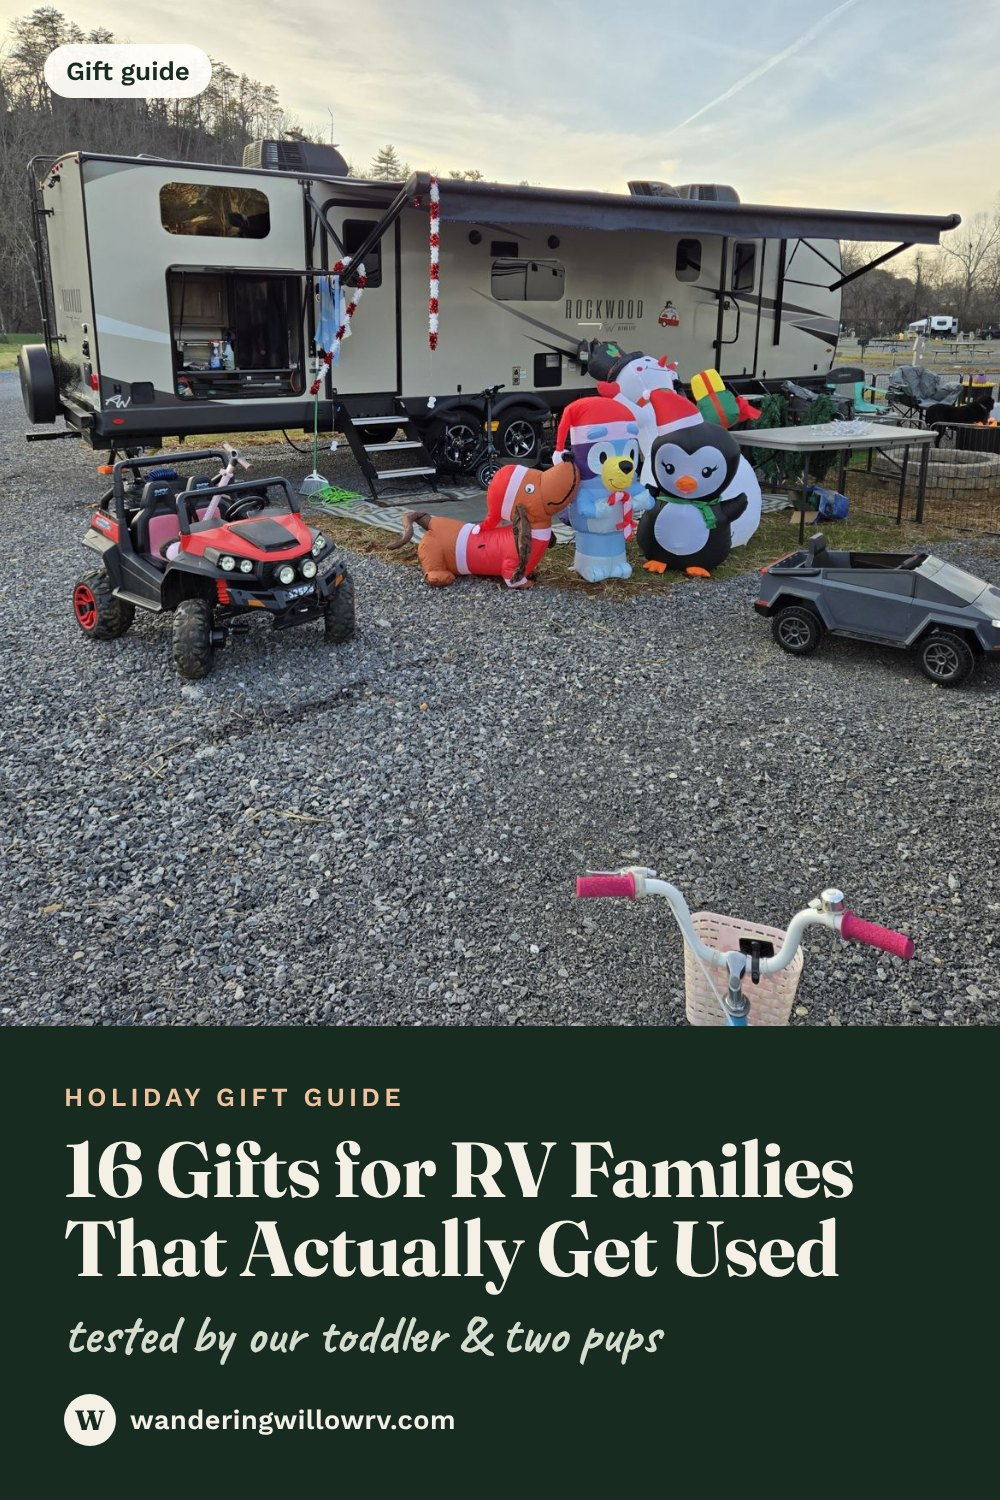
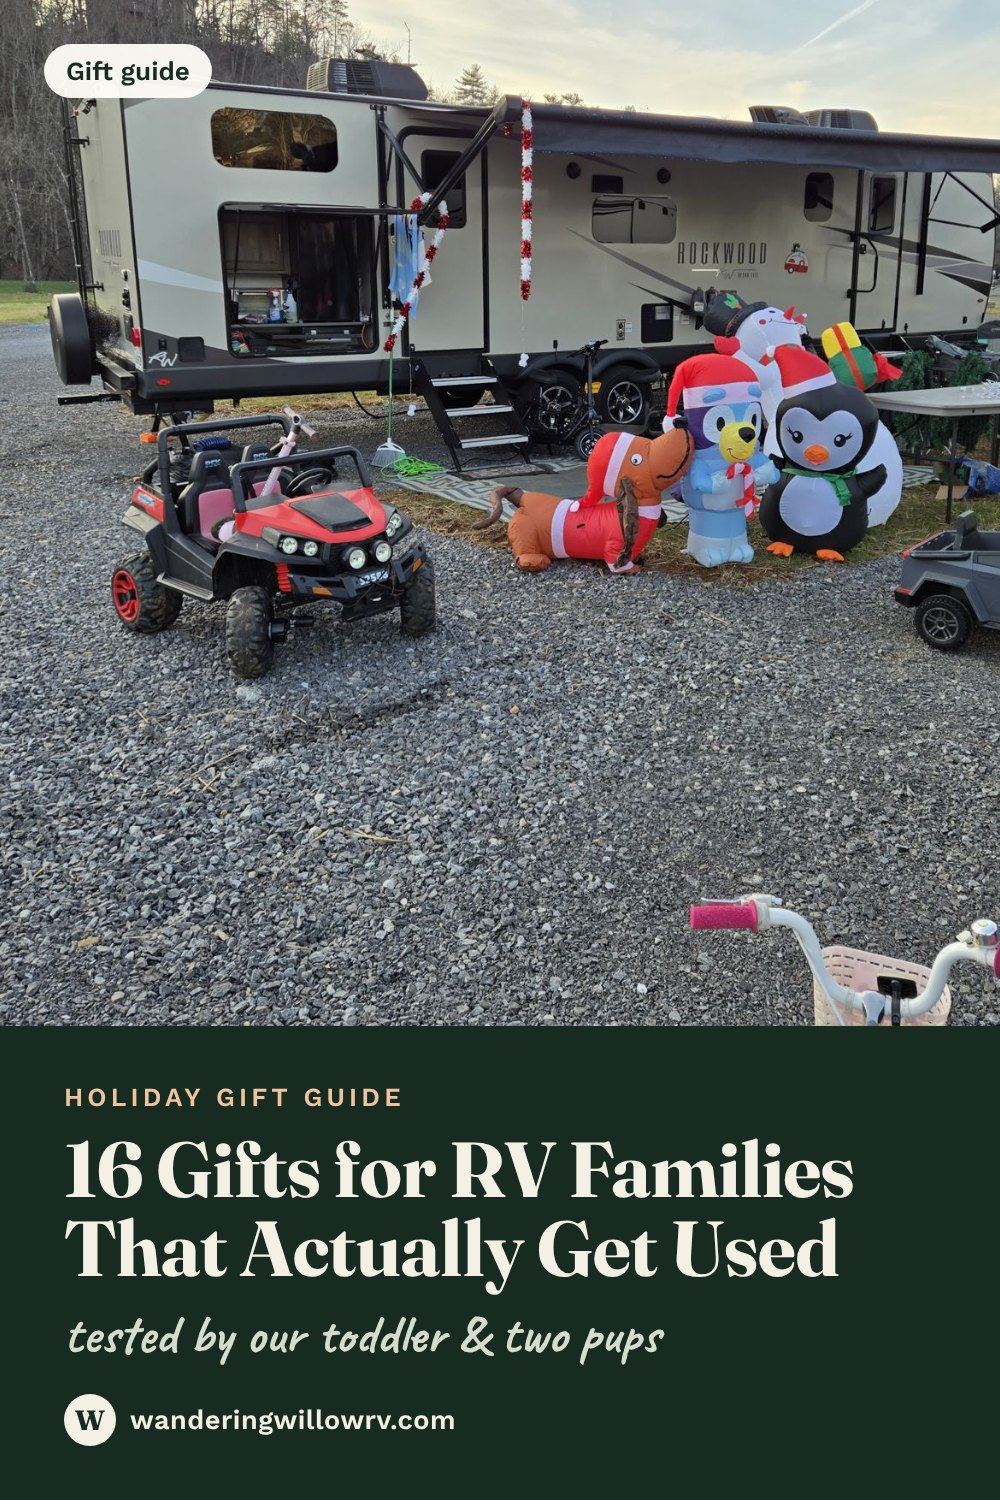
Gift guide: add affiliate links, crop people out of Tennessee campsite photo
Claude-Session: https://claude.ai/code/session_01E29rhF4XaSC5TLNKNVgp7u

diff --git a/stories/rv-family-gift-guide.html b/stories/rv-family-gift-guide.html
@@ -105,37 +105,34 @@
         <span class="badge">We own it</span>
         <h4><span class="gift-num">4.</span>Smokeless Fire Pit + Grill Grate</h4>
         <p>Less smoke in your eyes and in the camper. Add a grate on top and it becomes a grill. We chargrilled Christmas Eve oysters on ours.</p>
-        <!-- TODO James: swap in your Amazon SiteStripe link for the fire pit you own -->
-        <a class="btn btn-primary" href="https://www.amazon.com/s?k=smokeless+fire+pit+with+grill+grate" target="_blank" rel="sponsored nofollow noopener">Check price</a>
+        <a class="btn btn-primary" href="https://link.amazon/B0jivfclk" target="_blank" rel="sponsored nofollow noopener">Check price</a>
       </article>
       <article class="product">
         <div class="product-img"><img src="../assets/img/album/tn-christmas-09-pup-and-lights.jpg" alt="Campsite string lights glowing behind our pup at night" loading="lazy"></div>
         <span class="badge">We own it</span>
         <h4><span class="gift-num">5.</span>Awning String Lights</h4>
         <p>The cheapest way to make a campsite feel cozy, and nobody trips over a dog leash in the dark.</p>
-        <!-- TODO James: swap in your Amazon SiteStripe link -->
-        <a class="btn btn-primary" href="https://www.amazon.com/s?k=rv+awning+string+lights" target="_blank" rel="sponsored nofollow noopener">Check price</a>
+        <a class="btn btn-primary" href="https://link.amazon/B08hQqRBo" target="_blank" rel="sponsored nofollow noopener">Check price</a>
       </article>
       <article class="product">
         <div class="product-img"><img style="object-position: center 75%" src="../assets/img/album/tn-christmas-02-fire-pit.jpg" alt="Our reversible outdoor rug at the campsite" loading="lazy"></div>
         <span class="badge">We own it</span>
         <h4><span class="gift-num">6.</span>Reversible Outdoor RV Rug</h4>
         <p>Keeps most of the dirt, gravel, and pine needles out of the camper. Hose it off, roll it up, done.</p>
-        <!-- TODO James: swap in your Amazon SiteStripe link -->
-        <a class="btn btn-primary" href="https://www.amazon.com/s?k=reversible+outdoor+rv+rug" target="_blank" rel="sponsored nofollow noopener">Check price</a>
+        <a class="btn btn-primary" href="https://link.amazon/B0dAjsQBp" target="_blank" rel="sponsored nofollow noopener">Check price</a>
       </article>
       <article class="product">
         <div class="product-img"><img style="object-position: center 88%" src="../assets/img/stories/splash-griddle-prep.jpg" alt="Our aluminum roll-up table next to the griddle" loading="lazy"></div>
         <span class="badge">We own it</span>
         <h4><span class="gift-num">7.</span>Aluminum Roll-Up Table</h4>
         <p>Campground picnic tables are hit or miss. This rolls up small, sets up in a minute, and is our prep station every morning.</p>
-        <a class="btn btn-primary" href="https://link.amazon/B0dthjg9H" target="_blank" rel="sponsored nofollow noopener">Check price</a>
+        <a class="btn btn-primary" href="https://link.amazon/B01OFJi0R" target="_blank" rel="sponsored nofollow noopener">Check price</a>
       </article>
       <article class="product">
         <span class="badge">Must-have</span>
         <h4><span class="gift-num">8.</span>Power Watchdog 50A Surge Protector</h4>
         <p>Not exciting to unwrap, but bad campground power can fry thousands in appliances. Every RVer should have one.</p>
-        <a class="btn btn-primary" href="https://amzn.to/4efcTCK" target="_blank" rel="sponsored nofollow noopener">Check price</a>
+        <a class="btn btn-primary" href="https://link.amazon/B005aaVsc" target="_blank" rel="sponsored nofollow noopener">Check price</a>
       </article>
     </div>
 
@@ -154,30 +151,28 @@
         <span class="badge">We own it</span>
         <h4><span class="gift-num">9.</span>Flat-Top Camp Griddle</h4>
         <p>Pancakes, bacon, smash burgers, fried rice. If a camping family only gets one cooking gift, make it this.</p>
-        <!-- TODO James: swap in your Amazon SiteStripe link for your Blackstone -->
-        <a class="btn btn-primary" href="https://www.amazon.com/s?k=blackstone+griddle+portable" target="_blank" rel="sponsored nofollow noopener">Check price</a>
+        <a class="btn btn-primary" href="https://link.amazon/B0gsieMCi" target="_blank" rel="sponsored nofollow noopener">Check price</a>
       </article>
       <article class="product">
         <div class="product-img illus"><img src="../assets/img/gear/air-fryer-illustration.svg" alt="Illustration of our countertop air fryer" loading="lazy"></div>
         <span class="badge">We own it</span>
         <h4><span class="gift-num">10.</span>Our Air Fryer</h4>
         <p>Our most-used appliance in the camper. Toddler chicken tenders in ten minutes, and no hot oven heating up the rig.</p>
-        <a class="btn btn-primary" href="https://link.amazon/B0amJ8iCw" target="_blank" rel="sponsored nofollow noopener">Check price</a>
+        <a class="btn btn-primary" href="https://link.amazon/B0e9orNk1" target="_blank" rel="sponsored nofollow noopener">Check price</a>
       </article>
       <article class="product">
         <div class="product-img"><img src="../assets/img/album/tn-christmas-05-stew-pot.jpg" alt="Big pot of stew on an outdoor propane burner" loading="lazy"></div>
         <span class="badge">We own it</span>
         <h4><span class="gift-num">11.</span>Outdoor Propane Burner + Big Pot</h4>
         <p>For stews, chili, and seafood boils that feed the whole campground loop. It's the reason everyone shows up at our site.</p>
-        <!-- TODO James: swap in your Amazon SiteStripe link -->
-        <a class="btn btn-primary" href="https://www.amazon.com/s?k=outdoor+propane+burner+with+stock+pot" target="_blank" rel="sponsored nofollow noopener">Check price</a>
+        <a class="btn btn-primary" href="https://link.amazon/B0d0HoQ11" target="_blank" rel="sponsored nofollow noopener">Check price</a>
       </article>
       <article class="product">
         <div class="product-img"><img src="../assets/img/gear/berky.jpg" alt="Our Big Berkey water filter" loading="lazy"></div>
         <span class="badge">We own it</span>
         <h4><span class="gift-num">12.</span>Big Berkey Water Filter</h4>
         <p>Our primary drinking water at home and on longer trips. Gravity-fed, so it needs no power.</p>
-        <a class="btn btn-primary" href="https://link.amazon/B0exWLvjU" target="_blank" rel="sponsored nofollow noopener">Check price</a>
+        <a class="btn btn-primary" href="https://link.amazon/B06LNiz2B" target="_blank" rel="sponsored nofollow noopener">Check price</a>
       </article>
     </div>
 

diff --git a/stories/rv-meal-plan.html b/stories/rv-meal-plan.html
@@ -178,14 +178,14 @@
         <span class="badge">We own it</span>
         <h4>Our Air Fryer</h4>
         <p>Toddler chicken tenders in ten minutes, and no hot oven heating up the camper.</p>
-        <a class="btn btn-primary" href="https://link.amazon/B0amJ8iCw" target="_blank" rel="sponsored nofollow noopener">Check price</a>
+        <a class="btn btn-primary" href="https://link.amazon/B0e9orNk1" target="_blank" rel="sponsored nofollow noopener">Check price</a>
       </article>
       <article class="product">
         <div class="product-img"><img style="object-position: center 88%" src="../assets/img/stories/splash-griddle-prep.jpg" alt="Our aluminum roll-up table next to the griddle" loading="lazy"></div>
         <span class="badge">We own it</span>
         <h4>Aluminum Roll-Up Table</h4>
         <p>Our griddle prep station every morning. Sets up in a minute and wipes clean.</p>
-        <a class="btn btn-primary" href="https://link.amazon/B0dthjg9H" target="_blank" rel="sponsored nofollow noopener">Check price</a>
+        <a class="btn btn-primary" href="https://link.amazon/B01OFJi0R" target="_blank" rel="sponsored nofollow noopener">Check price</a>
       </article>
     </div>
 
